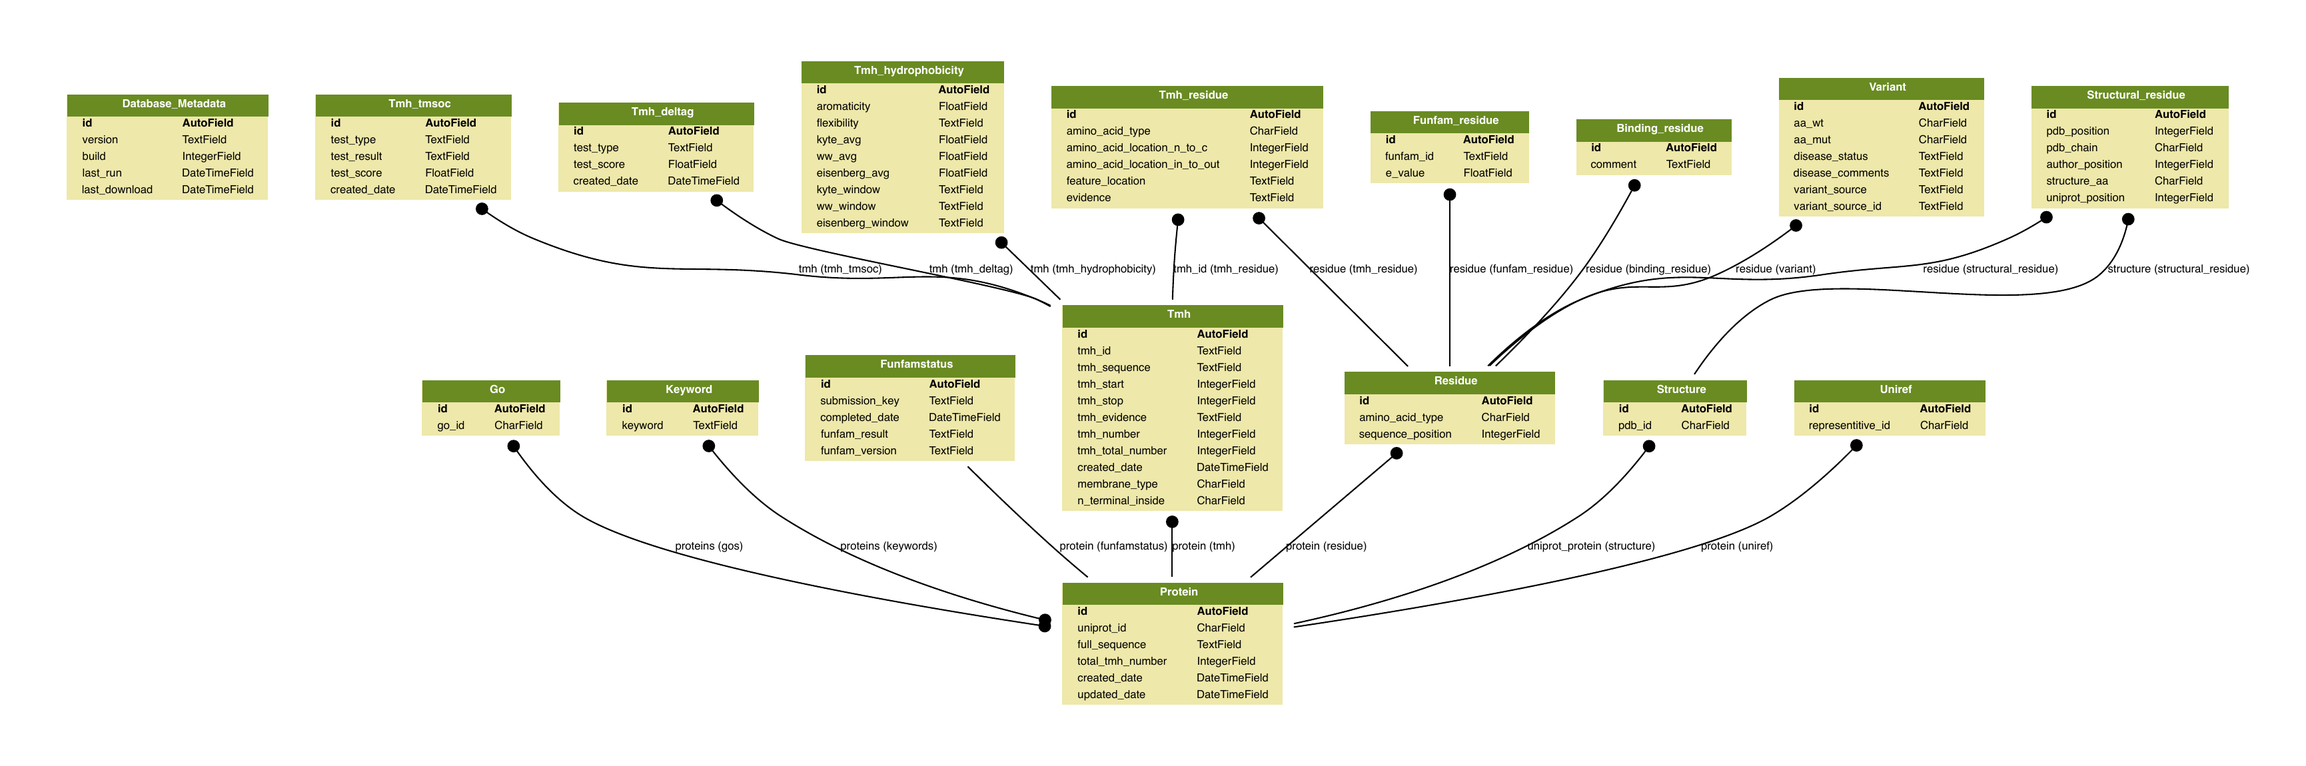
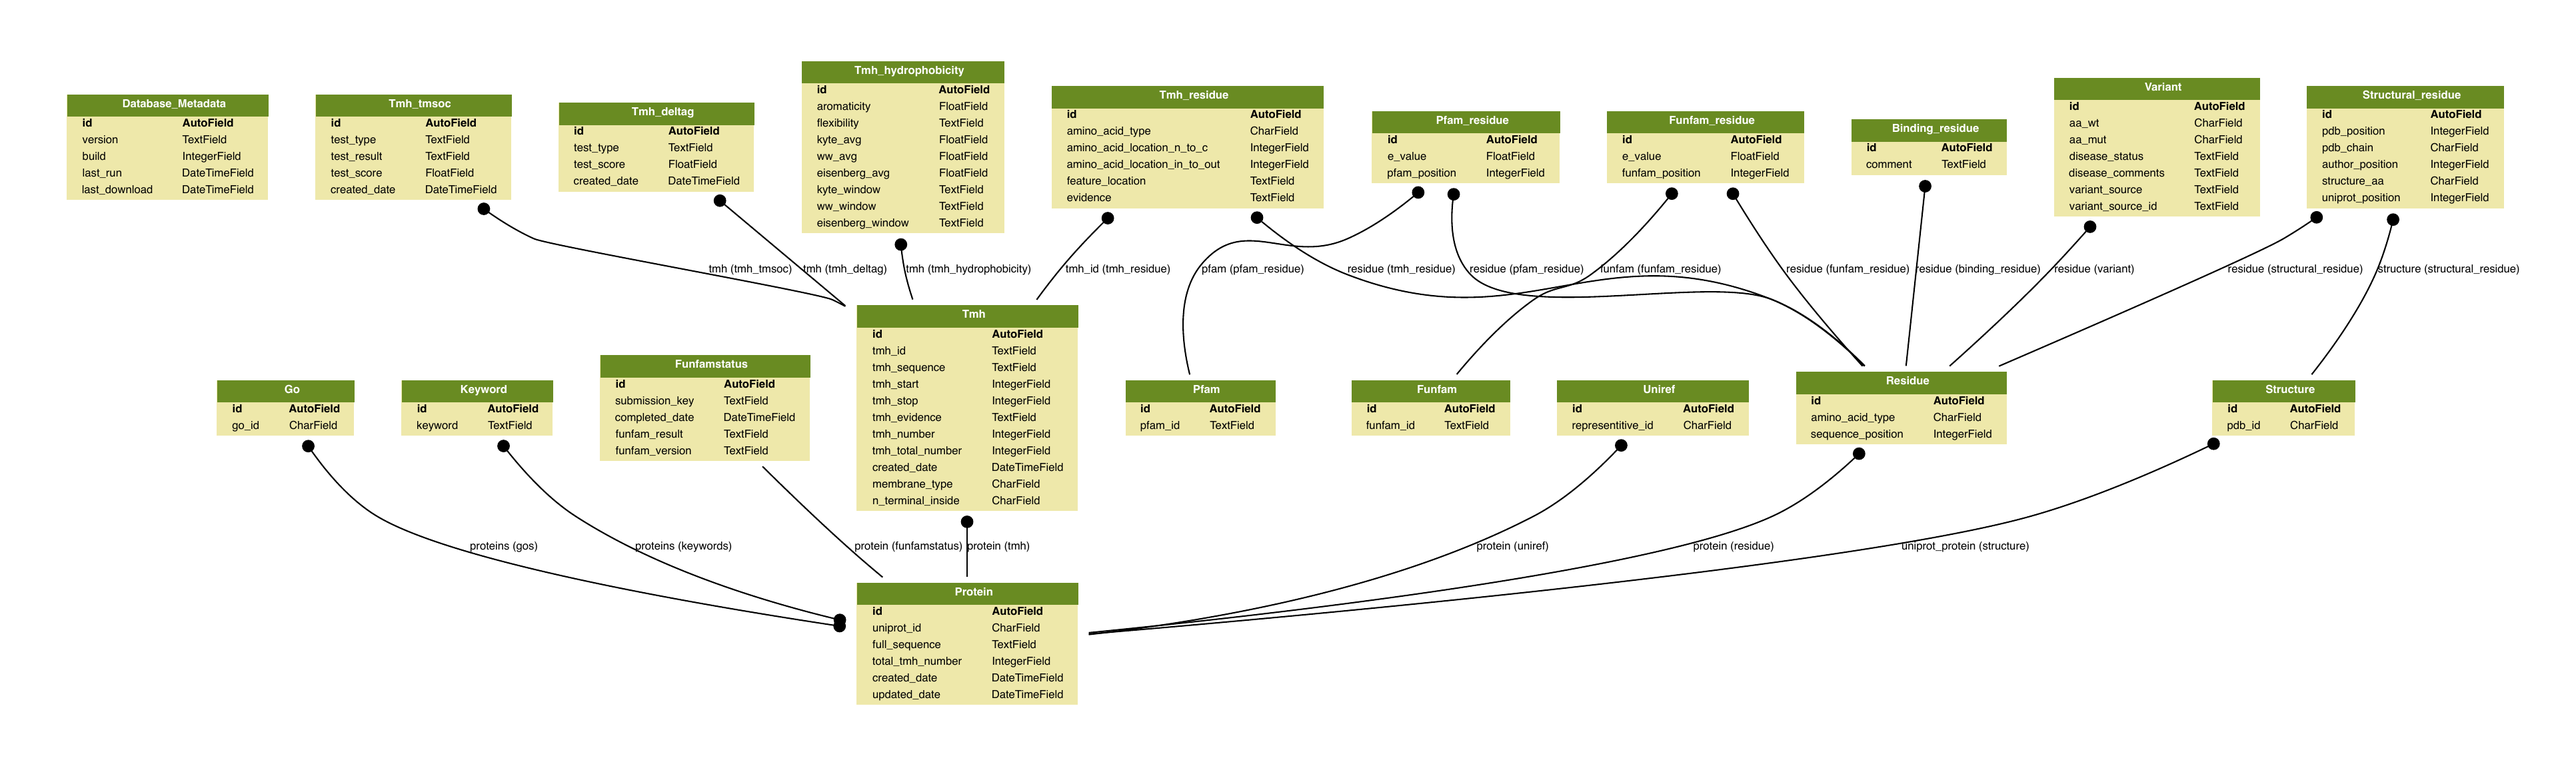
heatmap updates and homology structure mapping started in models

diff --git a/scripts/summary.py b/scripts/summary.py
@@ -25,8 +25,7 @@ def barchart(objects, performance, source, state):
         "a": "yellow"
     }
     y_pos = np.arange(len(objects))
-    plt.bar(y_pos, performance,
-            color=color_dic[state], align='center', alpha=0.5, edgecolor="grey", width=0.3)
+    plt.bar(y_pos, performance, color=color_dic[state], align='center', alpha=0.5, edgecolor="grey", width=0.3)
     plt.xticks(y_pos, objects)
     plt.xlabel('Residue type')
     plt.ylabel('Variants per residue')
@@ -35,9 +34,16 @@ def barchart(objects, performance, source, state):
     plt.savefig(filename)
     plt.clf()
 
-def heatmap(var_freqs_list, title, aa_list_baezo_order):
+def heatmap(var_freqs_list, title, aa_list_baezo_order, state):
+
+    color_dic = {
+        "d": "hot",
+        "b": "YlGn",
+        "a": "Blues"
+    }
+
     fig, ax = plt.subplots()
-    im = ax.imshow(var_freqs_list, cmap='hot', interpolation='nearest')
+    im = ax.imshow(var_freqs_list, cmap=color_dic[state], interpolation='nearest')
 
     # We want to show all ticks...
     ax.set_xticks(np.arange(len(aa_list_baezo_order)))
@@ -201,7 +207,7 @@ def run():
         var_freqs_list.append(np.array(var_freqs))
     var_freqs_list = np.array(var_freqs_list)
     print(var_freqs_list)
-    heatmap(var_freqs_list, title, aa_list_baezo_order)
+    heatmap(var_freqs_list, title, aa_list_baezo_order, "d")
 
     title = "non_TMH_disease"
     var_freqs_list = []
@@ -215,7 +221,7 @@ def run():
         var_freqs_list.append(np.array(var_freqs))
     var_freqs_list = np.array(var_freqs_list)
     print(var_freqs_list)
-    heatmap(var_freqs_list, title, aa_list_baezo_order)
+    heatmap(var_freqs_list, title, aa_list_baezo_order, "d")
 
 
     title = "TMH_disease_clinvar"
@@ -230,7 +236,7 @@ def run():
         var_freqs_list.append(np.array(var_freqs))
     var_freqs_list = np.array(var_freqs_list)
     print(var_freqs_list)
-    heatmap(var_freqs_list, title, aa_list_baezo_order)
+    heatmap(var_freqs_list, title, aa_list_baezo_order , "d")
 
 
     title = "non_TMH_disease_clinvar"
@@ -245,7 +251,37 @@ def run():
         var_freqs_list.append(np.array(var_freqs))
     var_freqs_list = np.array(var_freqs_list)
     print(var_freqs_list)
-    heatmap(var_freqs_list, title, aa_list_baezo_order)
+    heatmap(var_freqs_list, title, aa_list_baezo_order, "d")
+
+    title = "TMH_disease_humsavar"
+    var_freqs_list = []
+    for aa_wt in aa_list_baezo_order:
+        var_freqs = []
+        for aa_mut in aa_list_baezo_order:
+            print("Checking", aa_wt, "to", aa_mut, "...")
+            var_freq=Variant.objects.exclude(residue__tmh_residue=None).filter(aa_wt=aa_wt, aa_mut=aa_mut, variant_source="Humsavar", disease_status='d').count()
+            var_freqs.append(var_freq)
+            print(var_freq, "hits")
+        var_freqs_list.append(np.array(var_freqs))
+    var_freqs_list = np.array(var_freqs_list)
+    print(var_freqs_list)
+    heatmap(var_freqs_list, title, aa_list_baezo_order, "d")
+
+
+    title = "non_TMH_disease_humsavar"
+    var_freqs_list = []
+    for aa_wt in aa_list_baezo_order:
+        var_freqs = []
+        for aa_mut in aa_list_baezo_order:
+            print("Checking", aa_wt, "to", aa_mut, "...")
+            var_freq=Variant.objects.filter(residue__tmh_residue=None).filter(aa_wt=aa_wt, aa_mut=aa_mut, variant_source="Humsavar", disease_status='d').count()
+            var_freqs.append(var_freq)
+            print(var_freq, "hits")
+        var_freqs_list.append(np.array(var_freqs))
+    var_freqs_list = np.array(var_freqs_list)
+    print(var_freqs_list)
+    heatmap(var_freqs_list, title, aa_list_baezo_order, "d")
+
 
     title = "TMH_gnomAD"
     var_freqs_list = []
@@ -259,7 +295,7 @@ def run():
         var_freqs_list.append(np.array(var_freqs))
     var_freqs_list = np.array(var_freqs_list)
     print(var_freqs_list)
-    heatmap(var_freqs_list, title, aa_list_baezo_order)
+    heatmap(var_freqs_list, title, aa_list_baezo_order, "b")
 
 
     title = "non_TMH_gnomAD"
@@ -274,4 +310,78 @@ def run():
         var_freqs_list.append(np.array(var_freqs))
     var_freqs_list = np.array(var_freqs_list)
     print(var_freqs_list)
-    heatmap(var_freqs_list, title, aa_list_baezo_order)
+    heatmap(var_freqs_list, title, aa_list_baezo_order, "b")
+
+
+
+    ### Normalise according to residue count and gnomAD presence ###
+
+    ### Normalise according to gnomad residue count ###
+
+    title = "TMH_disease_gnomad_norm"
+    var_freqs_list = []
+    for aa_wt in aa_list_baezo_order:
+        var_freqs = []
+        for aa_mut in aa_list_baezo_order:
+            print("Checking", aa_wt, "to", aa_mut, " divided by", aa_wt, "population in TMH count...")
+            var_freq=Variant.objects.exclude(residue__tmh_residue=None).filter(aa_wt=aa_wt, aa_mut=aa_mut, disease_status='d').count()
+            gnomad_count = Variant.objects.exclude(residue__tmh_residue=None).filter(aa_wt=aa_wt, aa_mut=aa_mut, variant_source='gnomAD').count()
+            var_freq = var_freq/gnomad_count
+            var_freqs.append(var_freq)
+            print(var_freq, "score")
+        var_freqs_list.append(np.array(var_freqs))
+    var_freqs_list = np.array(var_freqs_list)
+    print(var_freqs_list)
+    heatmap(var_freqs_list, title, aa_list_baezo_order, "d")
+
+
+    title = "non_TMH_disease_gnomad_norm"
+    var_freqs_list = []
+    for aa_wt in aa_list_baezo_order:
+        var_freqs = []
+        for aa_mut in aa_list_baezo_order:
+            print("Checking", aa_wt, "to", aa_mut, " divided by", aa_wt, "population not in TMH count...")
+            var_freq=Variant.objects.filter(residue__tmh_residue=None).filter(aa_wt=aa_wt, aa_mut=aa_mut, disease_status='d').count()
+            gnomad_count= Variant.objects.filter(residue__tmh_residue=None).filter(aa_wt=aa_wt, aa_mut=aa_mut, variant_source='gnomAD').count()
+            var_freq = var_freq/gnomad_count
+            var_freqs.append(var_freq)
+            print(var_freq, "hits")
+        var_freqs_list.append(np.array(var_freqs))
+    var_freqs_list = np.array(var_freqs_list)
+    print(var_freqs_list)
+    heatmap(var_freqs_list, title, aa_list_baezo_order, "d")
+
+    ### Normalise according to residue count ###
+
+    title = "TMH_disease_resid_norm"
+    var_freqs_list = []
+    for aa_wt in aa_list_baezo_order:
+        var_freqs = []
+        for aa_mut in aa_list_baezo_order:
+            print("Checking", aa_wt, "to", aa_mut, " divided by", aa_wt, "population in TMH count...")
+            var_freq=Variant.objects.exclude(residue__tmh_residue=None).filter(aa_wt=aa_wt, aa_mut=aa_mut, disease_status='d').count()
+            residue_count = Residue.objects.exclude(tmh_residue=None).filter(amino_acid_type=aa_wt).count()
+            var_freq = var_freq/residue_count
+            var_freqs.append(var_freq)
+            print(var_freq, "score")
+        var_freqs_list.append(np.array(var_freqs))
+    var_freqs_list = np.array(var_freqs_list)
+    print(var_freqs_list)
+    heatmap(var_freqs_list, title, aa_list_baezo_order, "d")
+
+
+    title = "non_TMH_disease_resid_norm"
+    var_freqs_list = []
+    for aa_wt in aa_list_baezo_order:
+        var_freqs = []
+        for aa_mut in aa_list_baezo_order:
+            print("Checking", aa_wt, "to", aa_mut, " divided by", aa_wt, "population not in TMH count...")
+            var_freq=Variant.objects.filter(residue__tmh_residue=None).filter(aa_wt=aa_wt, aa_mut=aa_mut, disease_status='d').count()
+            residue_count =  Residue.objects.filter(tmh_residue=None).filter(amino_acid_type=aa_wt).count()
+            var_freq = var_freq/residue_count
+            var_freqs.append(var_freq)
+            print(var_freq, "hits")
+        var_freqs_list.append(np.array(var_freqs))
+    var_freqs_list = np.array(var_freqs_list)
+    print(var_freqs_list)
+    heatmap(var_freqs_list, title, aa_list_baezo_order, "d")

diff --git a/scripts/populate_structure.py b/scripts/populate_structure.py
@@ -15,6 +15,7 @@ import re
 import sys
 import defusedxml.ElementTree as ET
 from defusedxml.lxml import fromstring
+from urllib.error import URLError
 import Bio
 from Bio import SeqIO
 from Bio import SwissProt
@@ -63,45 +64,48 @@ def sifts_mapping(a_query):
             pdb_download_location = f"ftp://ftp.ebi.ac.uk/pub/databases/pdb/data/structures/divided/pdb/{pdb_code[1:3]}/pdb{pdb_code}.ent.gz"
             pdb_file_location = f"./scripts/external_datasets/pdb/{pdb_code}.pdb"
 
-            pdb_str = gzip.open(urllib.request.urlopen(
+            try:
+                pdb_str = gzip.open(urllib.request.urlopen(
                 pdb_download_location)).read()
 
-            record_for_database, created = Structure.objects.update_or_create(uniprot_protein=protein, pdb_id=pdb_code)
-            structure = Structure.objects.get(uniprot_protein=protein, pdb_id=pdb_code)
-            with open(pdb_file_location, 'w') as pdb_file:
-                pdb_file.write(pdb_str.decode("utf-8"))
+                record_for_database, created = Structure.objects.update_or_create(uniprot_protein=protein, pdb_id=pdb_code)
+                structure = Structure.objects.get(uniprot_protein=protein, pdb_id=pdb_code)
+                with open(pdb_file_location, 'w') as pdb_file:
+                    pdb_file.write(pdb_str.decode("utf-8"))
 
-                structure_sequence_map = get_sequence_resid_chains_dict(pdb_code)  # [1]
-                # ('Q95460', 36): {'A': [15, 14, 'Asp'], 'C': [15, 14, 'Asp']}
+                    structure_sequence_map = get_sequence_resid_chains_dict(pdb_code)  # [1]
+                    # ('Q95460', 36): {'A': [15, 14, 'Asp'], 'C': [15, 14, 'Asp']}
 
-                residue_list = list(Residue.objects.filter(protein=protein).values())
-                for residue in residue_list:
+                    residue_list = list(Residue.objects.filter(protein=protein).values())
+                    for residue in residue_list:
 
-                    try:
-                        #print("Trying to find ", (a_query, residue_details["sequence_position"]),  "in", structure_sequence_map)
-                        structural_residues_to_map = structure_sequence_map[(a_query, residue["sequence_position"])]
+                        try:
+                            #print("Trying to find ", (a_query, residue_details["sequence_position"]),  "in", structure_sequence_map)
+                            structural_residues_to_map = structure_sequence_map[(a_query, residue["sequence_position"])]
 
-                        seq_residue = Residue.objects.get(protein=protein, sequence_position=residue["sequence_position"])
-                        #print("Residues to map:", structural_residues_to_map)
-                        for chain, positions in structural_residues_to_map.items():
-                            pdb_chain = chain
-                            pdb_position = positions[0]
-                            author_position = positions[1]
-                            structure_aa = Bio.SeqUtils.IUPACData.protein_letters_3to1[positions[2]]
-                            #print("Mapping:,", pdb_chain, pdb_position, author_position)
+                            seq_residue = Residue.objects.get(protein=protein, sequence_position=residue["sequence_position"])
+                            #print("Residues to map:", structural_residues_to_map)
+                            for chain, positions in structural_residues_to_map.items():
+                                pdb_chain = chain
+                                pdb_position = positions[0]
+                                author_position = positions[1]
+                                structure_aa = Bio.SeqUtils.IUPACData.protein_letters_3to1[positions[2]]
+                                #print("Mapping:,", pdb_chain, pdb_position, author_position)
 
-                            record_for_database, created = Structural_residue.objects.update_or_create(
-                                structure=structure,
-                                residue=seq_residue,
-                                pdb_position=pdb_position,
-                                pdb_chain=pdb_chain,
-                                author_position=author_position,
-                                structure_aa=structure_aa,
-                                uniprot_position=residue["sequence_position"]
-                            )
+                                record_for_database, created = Structural_residue.objects.update_or_create(
+                                    structure=structure,
+                                    residue=seq_residue,
+                                    pdb_position=pdb_position,
+                                    pdb_chain=pdb_chain,
+                                    author_position=author_position,
+                                    structure_aa=structure_aa,
+                                    uniprot_position=residue["sequence_position"]
+                                )
 
-                    except KeyError:
-                        pass
+                        except KeyError:
+                            pass
+            except URLError:
+                print("pdb code", pdb_code, "has no pdb file. Potentially there is an mmcif.")
 
 
 def get_sequence_resid_chains_dict(pdb_code):

diff --git a/tmh_db/migrations/0005_auto_20190515_1637.py b/tmh_db/migrations/0005_auto_20190515_1637.py
@@ -1,0 +1,47 @@
+# Generated by Django 2.2 on 2019-05-15 16:37
+
+from django.db import migrations, models
+import django.db.models.deletion
+
+
+class Migration(migrations.Migration):
+
+    dependencies = [
+        ('tmh_db', '0004_auto_20190515_1438'),
+    ]
+
+    operations = [
+        migrations.CreateModel(
+            name='Funfam',
+            fields=[
+                ('id', models.AutoField(auto_created=True, primary_key=True, serialize=False, verbose_name='ID')),
+                ('funfam_id', models.TextField()),
+            ],
+        ),
+        migrations.CreateModel(
+            name='Pfam',
+            fields=[
+                ('id', models.AutoField(auto_created=True, primary_key=True, serialize=False, verbose_name='ID')),
+                ('pfam_id', models.TextField()),
+            ],
+        ),
+        migrations.RemoveField(
+            model_name='funfam_residue',
+            name='funfam_id',
+        ),
+        migrations.CreateModel(
+            name='Pfam_residue',
+            fields=[
+                ('id', models.AutoField(auto_created=True, primary_key=True, serialize=False, verbose_name='ID')),
+                ('e_value', models.FloatField()),
+                ('pfam', models.ForeignKey(on_delete=django.db.models.deletion.CASCADE, to='tmh_db.Pfam')),
+                ('residue', models.ForeignKey(on_delete=django.db.models.deletion.CASCADE, to='tmh_db.Residue')),
+            ],
+        ),
+        migrations.AddField(
+            model_name='funfam_residue',
+            name='funfam',
+            field=models.ForeignKey(default=1, on_delete=django.db.models.deletion.CASCADE, to='tmh_db.Funfam'),
+            preserve_default=False,
+        ),
+    ]

diff --git a/tmh_db/models.py b/tmh_db/models.py
@@ -36,11 +36,24 @@ class Funfamstatus(models.Model):
     funfam_result = models.TextField()
     funfam_version = models.TextField()
 
+class Funfam(models.Model):
+    funfam_id = models.TextField()
 
 class Funfam_residue(models.Model):
+    funfam = models.ForeignKey("Funfam", on_delete=models.CASCADE)
     residue = models.ForeignKey("Residue", on_delete=models.CASCADE)
-    funfam_id = models.TextField()
     e_value = models.FloatField()
+    funfam_position = models.IntegerField()
+
+class Pfam(models.Model):
+    pfam_id = models.TextField()
+
+class Pfam_residue(models.Model):
+    pfam = models.ForeignKey("Pfam", on_delete=models.CASCADE)
+    residue = models.ForeignKey("Residue", on_delete=models.CASCADE)
+    e_value = models.FloatField()
+    pfam_position = models.IntegerField()
+
 
 
 class Tmh(models.Model):

diff --git a/tmh_db/migrations/0006_auto_20190515_1648.py b/tmh_db/migrations/0006_auto_20190515_1648.py
@@ -1,0 +1,25 @@
+# Generated by Django 2.2 on 2019-05-15 16:48
+
+from django.db import migrations, models
+
+
+class Migration(migrations.Migration):
+
+    dependencies = [
+        ('tmh_db', '0005_auto_20190515_1637'),
+    ]
+
+    operations = [
+        migrations.AddField(
+            model_name='funfam_residue',
+            name='funfam_position',
+            field=models.IntegerField(default=1),
+            preserve_default=False,
+        ),
+        migrations.AddField(
+            model_name='pfam_residue',
+            name='pfam_position',
+            field=models.IntegerField(default=1),
+            preserve_default=False,
+        ),
+    ]

diff --git a/readme.md b/readme.md
@@ -27,6 +27,14 @@ The current database structure is laid out below. The key thing to keep in mind 
 
 ![Table structure of database.](images/graph.png)
 
+### Installation
+ 1. `git clone https://github.com/JamesABaker/VarTMH.git`
+ 2. `pip install -r requirements` I suggest working in a virtual environment for this.
+ 3. Change the `tmh_database/settings.py` to your server settings.
+ 3. `bash populate.sh`
+ 4. `bash db_summary.sh`
+
+
 ## Back-end sources and references
 
 Several external tools are needed to generate the database. External programmes, software, and datasets are listed below.
